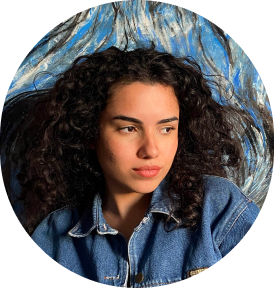
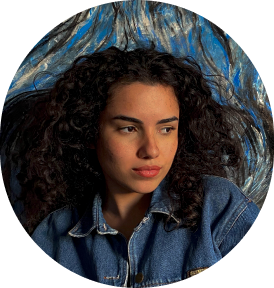
Correção links

diff --git a/style.css b/style.css
@@ -9,14 +9,14 @@ background-repeat:no-repeat;
 
 section{
     width: 100%;
-    height: 99vh;
+    height: 99.8vh;
     z-index: -1;
 }
 
 /*background*/
 
 .Front{
-    background: url(img/Mergulhoextra.jpg);
+    background: url(img/Mergulhoextra2.jpg);
     background-size: cover;
     background-repeat: no-repeat;
 
@@ -176,11 +176,12 @@ p{
 }
 
 .url{
-    display: inline;
+    display: inline-flex;
     justify-content: center;
     vertical-align: middle;
-    padding-bottom: 30px;
+    margin-bottom: 30px;
 }
+
 
 
 /*About*/
@@ -188,7 +189,7 @@ p{
 .text-about{
     color: #fff;
     padding-left: 20px;
-    padding-right: 10px;
+    padding-right: 20px;
     text-align: left;
  }
 

diff --git a/index.html b/index.html
@@ -63,7 +63,7 @@
          <div class="url"> <a href="https://www.behance.net/joyceand" target="_blank">
            <img src="img/behanceurl.png"
            alt="Behance link"
-                width="353"
+                width="325"
                 height="24"
                 id="behance"> </a>
               
